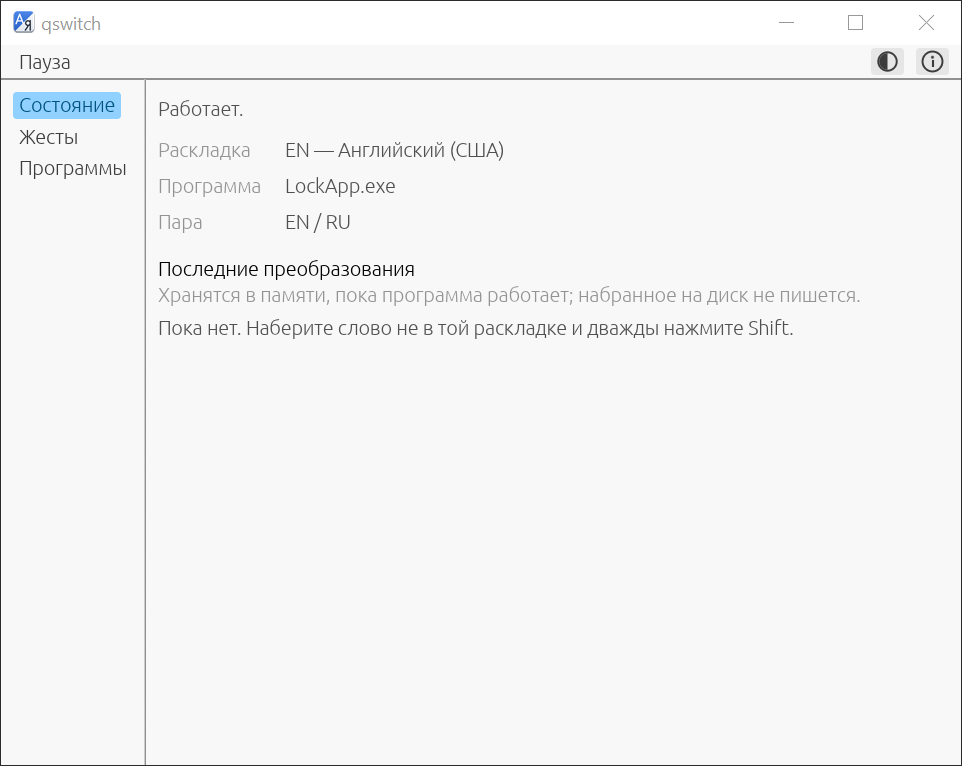
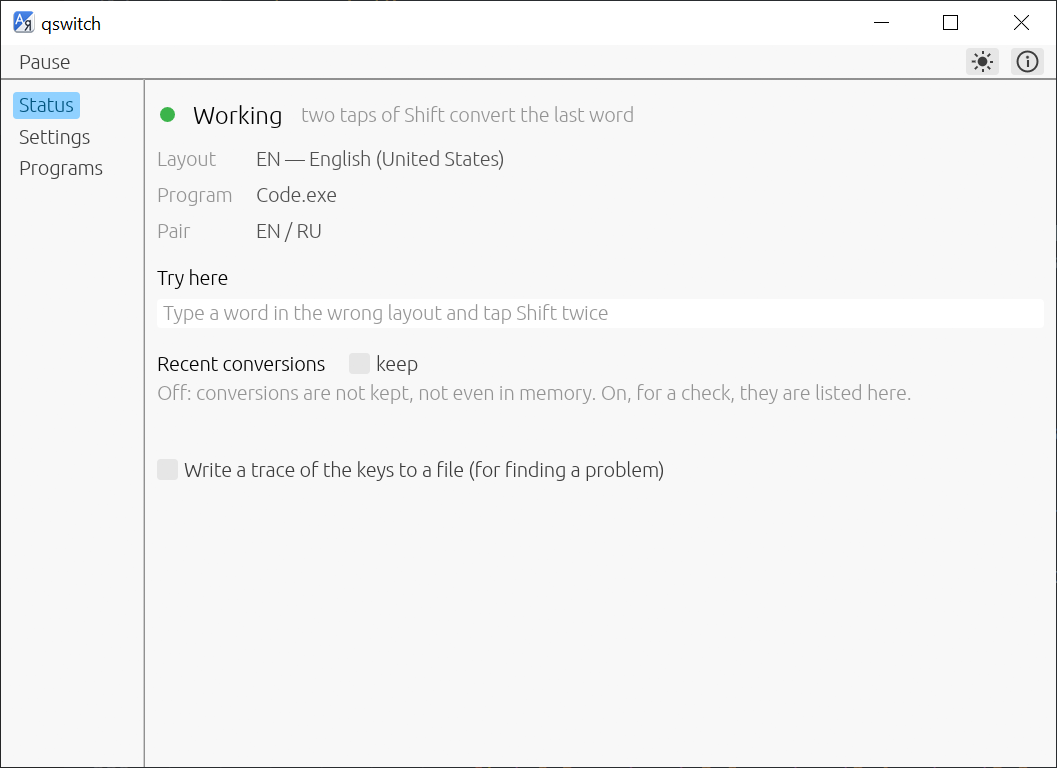
README: collapse the long sections, an English screenshot
Both READMEs now keep each section to a short paragraph with the
essentials and fold the rest into <details> blocks, as metalmpv's do:
the portable settings, the selection and the typing of the conversion,
the badge's look and the caret lookup, the command line, how the build
works and the environment (winget), the releases on GitHub. Esc is in
the shortcuts. The screenshot is of the English interface, since the
main README is English (the Russian one says so under it), taken of
the Status page of the current build.

diff --git a/README.md b/README.md
@@ -17,9 +17,9 @@
 
 qswitch is a small keyboard layout switcher for Windows for those who write in two languages, in the spirit of Punto Switcher and Caramba Switcher. A word typed in the wrong layout (`ghbdtn` instead of `привет`, `зкштеа` instead of `printf`) is fixed with two taps of Shift: the word is replaced with the same keys read in the other layout, and the window is switched to that layout. The program lives in the notification area, shows the current layout there, and follows rules per program. Nothing typed is written to disk and nothing is sent anywhere.
 
-![qswitch's Status page: the layout and the program in front, the recent conversions](images/screenshot.png)
+![qswitch's Status page: the state, the layout and the program in front, a field to try the gesture in](images/screenshot.png)
 
-*Screenshot of version 0.1.0.*
+*Screenshot of version 0.1.1.*
 
 ## Features
 
@@ -27,7 +27,7 @@ qswitch is a small keyboard layout switcher for Windows for those who write in t
 - **Selected text**: with nothing typed, the gesture converts the selection instead, in any program that exposes its text to UI Automation (editors, browsers, Office, messengers).
 - **Caps Lock as the layout switch**: optional; Shift+Caps Lock stays the real Caps Lock.
 - **The layout in the notification area**: two letters (`EN`, `RU`) in the colour of the taskbar, grey while paused.
-- **A badge near the caret**: the layout's letters appear under the caret for a moment whenever the layout changes, or stay beside it as it moves (see [The badge near the caret](#the-badge-near-the-caret)).
+- **A badge near the caret**: the layout's letters appear under the caret for a moment whenever the layout changes, or stay beside it as it moves, in a size and a colour of choice (see [The badge near the caret](#the-badge-near-the-caret)).
 - **Rules per program**: do nothing in games and remote desktops, start a program in a given layout (see [Programs](#programs)).
 - **Any pair of installed layouts**, not only English and Russian.
 - **Light, dark or system theme.**
@@ -37,13 +37,17 @@ qswitch is a small keyboard layout switcher for Windows for those who write in t
 
 ## Installation
 
-The installer and the portable archive are on the [Releases](https://github.com/Fan4Metal/qswitch/releases) page.
+The installer and the portable archive are on the [Releases](https://github.com/Fan4Metal/qswitch/releases) page. The executables are not code-signed, so Windows SmartScreen may warn about an unknown publisher on first launch.
 
-The installer, `qswitch_<version>_Setup.exe`, needs no administrator rights: the program is placed in `%LOCALAPPDATA%\Programs\qswitch`. It offers to start the program with Windows (the same setting is on the Settings page). The installed program keeps its settings in `%APPDATA%\qswitch`.
+- **Installer**, `qswitch_<version>_Setup.exe`: needs no administrator rights; the program is placed in `%LOCALAPPDATA%\Programs\qswitch` and keeps its settings in `%APPDATA%\qswitch`. It offers to start the program with Windows (the same setting is on the Settings page).
+- **Portable archive**, `qswitch_<version>_portable.zip`: the program in a `qswitch` folder, run without installation; the settings are kept next to it, so it can be carried on a removable drive.
 
-The portable archive, `qswitch_<version>_portable.zip`, holds the program in a `qswitch` folder and runs without installation. It also holds an empty `qswitch.json`. While that file is next to `qswitch.exe` and the folder is writable, the settings are kept in it, so the program can be carried on a removable drive. Without the file, the program keeps them in `%APPDATA%\qswitch`, as the installed program does. The About window shows where the settings are kept.
+<details>
+<summary>Where the portable program keeps its settings</summary>
 
-The executables are not code-signed, so Windows SmartScreen may warn about an unknown publisher on first launch.
+The archive holds an empty `qswitch.json`. While that file is next to `qswitch.exe` and the folder is writable, the settings are kept in it. Without the file, the program keeps them in `%APPDATA%\qswitch`, as the installed program does. The About window shows where the settings are kept.
+
+</details>
 
 ## The gesture
 
@@ -54,13 +58,41 @@ The program watches the keys typed since the caret last moved (a click, an arrow
 | The first | The last word is erased and typed again as the same keys read in the other layout; the window is switched to that layout. |
 | The second | The word is put back as it was typed, and the layout too. Each further repeat flips it again. |
 
-With nothing typed yet, the gesture converts the selected text, if there is one: the selection is read through UI Automation, converted character by character (each goes to the other layout of the pair) and typed over the selection, and the window is switched to the layout of the result. With no selection either, the gesture only switches the layout. Programs that do not expose their text (and terminals, where typing does not replace a selection) get the layout switch alone. Instead of two taps of Shift, the Settings page offers two taps of Ctrl or the Pause/Break key (as in Punto Switcher). The Status page has a field to try the gesture in: a word typed there in the wrong layout is converted like anywhere else.
+The Status page has a field to try the gesture in: a word typed there in the wrong layout is converted like anywhere else. Instead of two taps of Shift, the Settings page offers two taps of Ctrl or the Pause/Break key (as in Punto Switcher).
+
+<details>
+<summary>Selected text, and the gesture with nothing typed</summary>
+
+With nothing typed yet, the gesture converts the selected text, if there is one: the selection is read through UI Automation, converted character by character (each goes to the other layout of the pair) and typed over the selection, and the window is switched to the layout of the result. With no selection either, the gesture only switches the layout. Programs that do not expose their text (and terminals, where typing does not replace a selection) get the layout switch alone.
+
+</details>
+
+<details>
+<summary>How the conversion is typed, and where it does nothing</summary>
 
 The conversion is done by erasing characters before the caret with Backspace and typing the new ones as Unicode, so it works in any program that takes keyboard input: editors, browsers, messengers, terminals. Programs that handle keys themselves (games with DirectInput, remote desktops, virtual machines) are better left alone with a rule (see [Programs](#programs)); a remote desktop, VirtualBox, VMware and Hyper-V are excluded from the start. Windows of programs running as administrator do not accept input from a program that is not, so the gesture does nothing there unless qswitch itself runs as administrator.
 
+</details>
+
 ## The badge near the caret
 
-When the layout changes, by the gesture or by Alt+Shift, a small badge with the layout's letters appears under the caret of the window in front and goes after 0.7 s, so the layout is seen where the eyes are, not in the corner of the screen. The Settings page offers three modes: off, for a moment when the layout changes (the default, with the time it stays), or always, following the caret. The size of its letters is set there too (10 pt by default), and the badge may take a colour of its own for each layout of the pair (a blue and a red until chosen) instead of the grey of the taskbar, so the layout is told by the colour before the letters are read. The badge appears beside the pointer while any of these is being changed, and on the **Show** button, so the look can be judged at once. In the second mode the badge also appears for a moment when the caret is placed: a click into text, another field, another window (a check box, on by default); a click on anything that takes no text shows nothing. The badge takes no focus and lets clicks through. Its place comes from the caret the program in front reports to Windows (Notepad, Office and most classic programs); for programs that draw their own caret (Chrome, Edge, VS Code and other Electron applications, WPF and Store applications) it is asked through accessibility (UI Automation), which takes a few milliseconds. Only when neither answers does the badge appear beside the mouse pointer.
+When the layout changes, by the gesture or by Alt+Shift, a small badge with the layout's letters appears under the caret of the window in front and goes after 0.7 s, so the layout is seen where the eyes are, not in the corner of the screen. The Settings page offers three modes: off, for a moment when the layout changes (the default, with the time it stays), or always, following the caret. The badge takes no focus and lets clicks through.
+
+<details>
+<summary>Size, colours and the preview</summary>
+
+The size of the badge's letters is set on the Settings page (10 pt by default), and the badge may take a colour of its own for each layout of the pair (a blue and a red until chosen) instead of the grey of the taskbar, so the layout is told by the colour before the letters are read. The badge appears beside the pointer while any of these is being changed, and on the **Show** button, so the look can be judged at once.
+
+</details>
+
+<details>
+<summary>The caret placed, and how the caret is found</summary>
+
+In the "for a moment" mode the badge also appears when the caret is placed: a click into text, another field, another window (a check box, on by default); a click on anything that takes no text shows nothing. In the "always" mode it follows the caret the same way through clicks and changes of window, and leaves when the focus goes to something that takes no text.
+
+Its place comes from the caret the program in front reports to Windows (Notepad, Office and most classic programs); for programs that draw their own caret (Chrome, Edge, VS Code and other Electron applications, WPF and Store applications) it is asked through accessibility (UI Automation), which takes a few milliseconds. Only when neither answers does the badge appear beside the mouse pointer.
+
+</details>
 
 ## Programs
 
@@ -75,13 +107,21 @@ The list under the rules offers the programs that have a window on the screen no
 
 ## Pause and the notification area
 
-A click on the icon only switches the layout of the window that was in front, and the focus stays where it is; qswitch's own window opens from the icon's menu, which has **Show**, **Pause** (every key goes through untouched, the icon turns grey) and **Exit**. The window's close button and the Esc key hide it to the notification area (a setting on the Settings page); the program is ended from the icon's menu. A second start of `qswitch.exe` only brings the window of the running copy forward; `qswitch.exe --pause`, `--resume` and `--quit` tell the running copy what to do (for scripts and game launchers), `--hidden` starts it without the window (the autostart entry).
+A click on the icon only switches the layout of the window that was in front, and the focus stays where it is; qswitch's own window opens from the icon's menu, which has **Show**, **Pause** (every key goes through untouched, the icon turns grey) and **Exit**. The window's close button and the Esc key hide it to the notification area (a setting on the Settings page); the program is ended from the icon's menu.
+
+<details>
+<summary>The command line</summary>
+
+A second start of `qswitch.exe` only brings the window of the running copy forward. `qswitch.exe --pause`, `--resume` and `--quit` tell the running copy what to do (for scripts and game launchers); `--hidden` starts it without the window (the autostart entry); `--version` and `--help` print to the console.
+
+</details>
 
 ## Keyboard shortcuts
 
 | Key | Action |
 |---|---|
 | `Shift` `Shift` | Convert the last word, or put it back; with nothing typed, the selected text (the default gesture, see above) |
+| `Esc` | Hide the window to the notification area |
 | `F1` | About |
 
 ## Update check and privacy
@@ -99,7 +139,25 @@ uv run build.py          # target\release\qswitch.exe
 cargo test
 ```
 
+<details>
+<summary>How the build works</summary>
+
 `build.py` first closes a `qswitch.exe` running from the project's `target` folder, because it would lock the file, then runs `cargo build --release`. When the program is not running, plain `cargo build --release` works as well. The executable links the C runtime statically (`.cargo/config.toml`), so it needs nothing beyond Windows itself.
+
+</details>
+
+<details>
+<summary>Setting up the environment</summary>
+
+The tools can be installed with winget:
+
+```
+winget install Rustlang.Rustup Microsoft.VisualStudio.2022.BuildTools Python.Python.3.12 astral-sh.uv JRSoftware.InnoSetup
+```
+
+The C++ workload of the Build Tools ("Desktop development with C++") is selected in the Visual Studio Installer.
+
+</details>
 
 ## Installer and release
 
@@ -113,6 +171,9 @@ python tools/make_release.py --install    # then a silent installation over the 
 
 The script writes the files to `dist` and takes the version from `Cargo.toml`. The installer script is `tools/setup.iss`; `qswitch.exe --export-icon <file.ico>` writes the installer icon.
 
+<details>
+<summary>Releases on GitHub</summary>
+
 Releases on GitHub are built by the **Release** workflow (`.github/workflows/release.yml`). After the version in `Cargo.toml` is updated and committed, pushing a matching tag publishes a release with the installer and the portable archive:
 
 ```
@@ -121,6 +182,8 @@ git push origin v0.1.0
 ```
 
 The workflow stops if the tag does not match the version in `Cargo.toml`. Running the workflow manually (Actions → Release → Run workflow) builds the files and attaches them to the run, without making a release.
+
+</details>
 
 ## Built with
 
